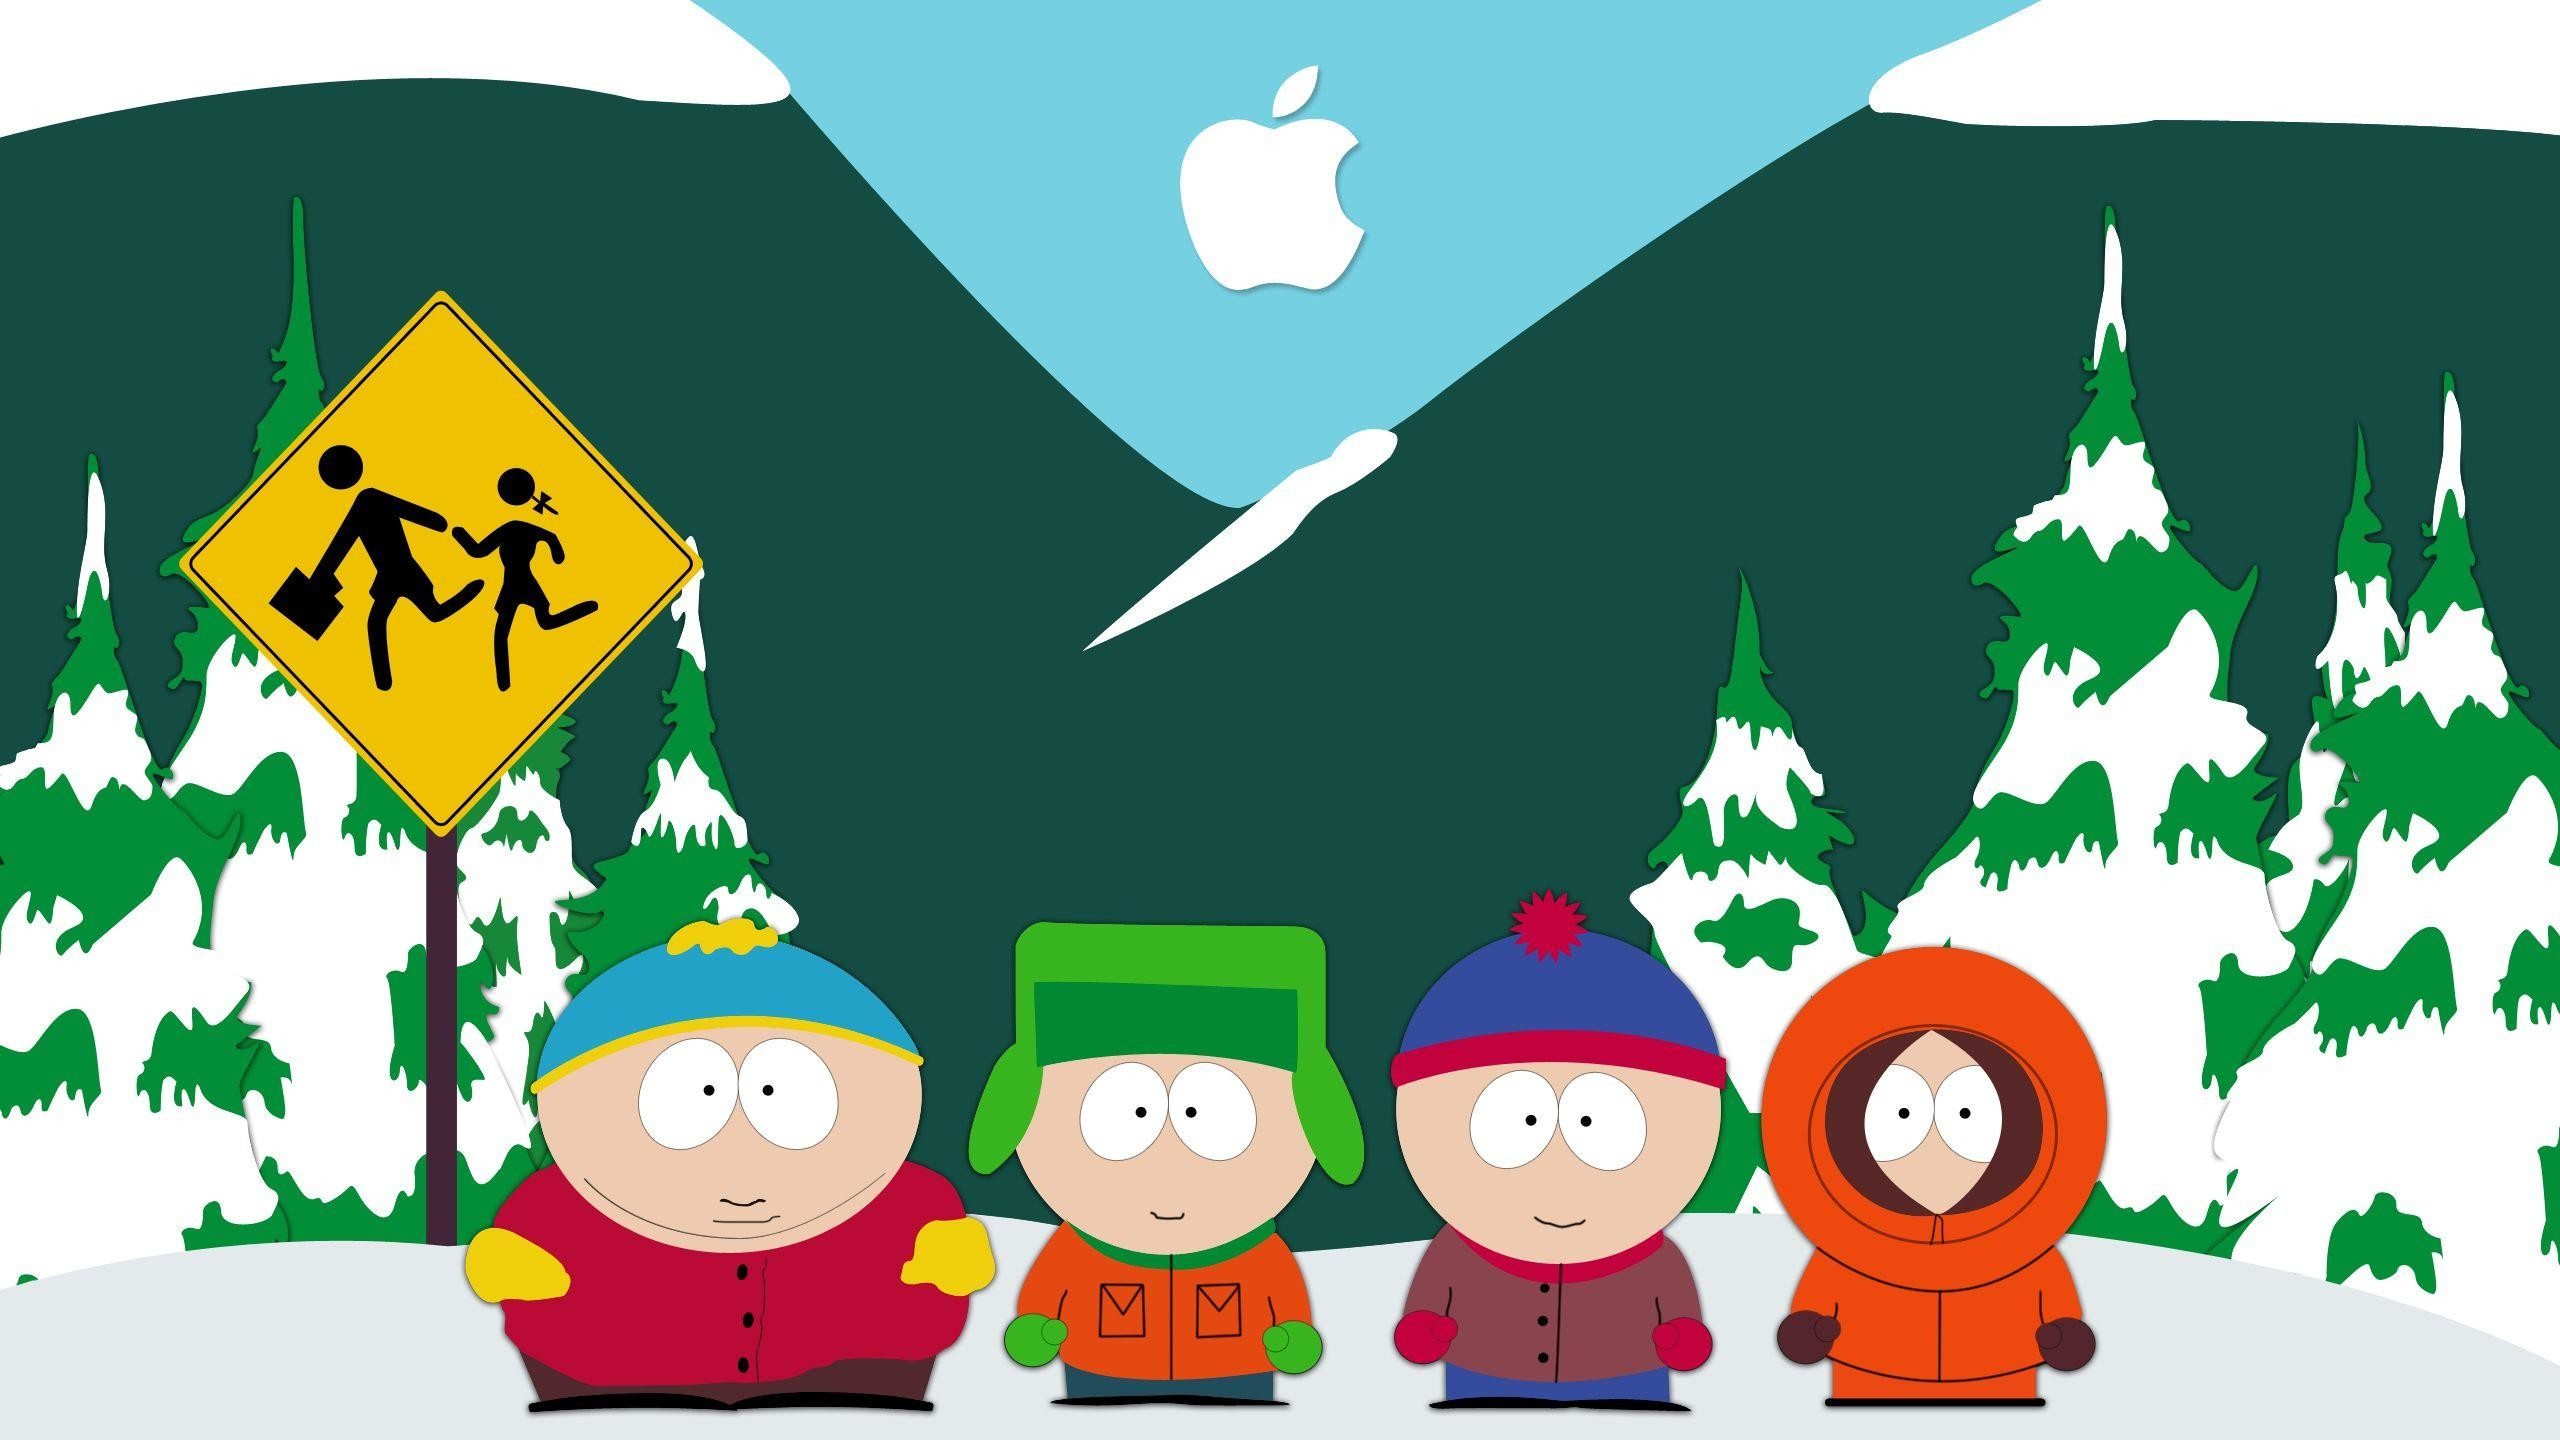
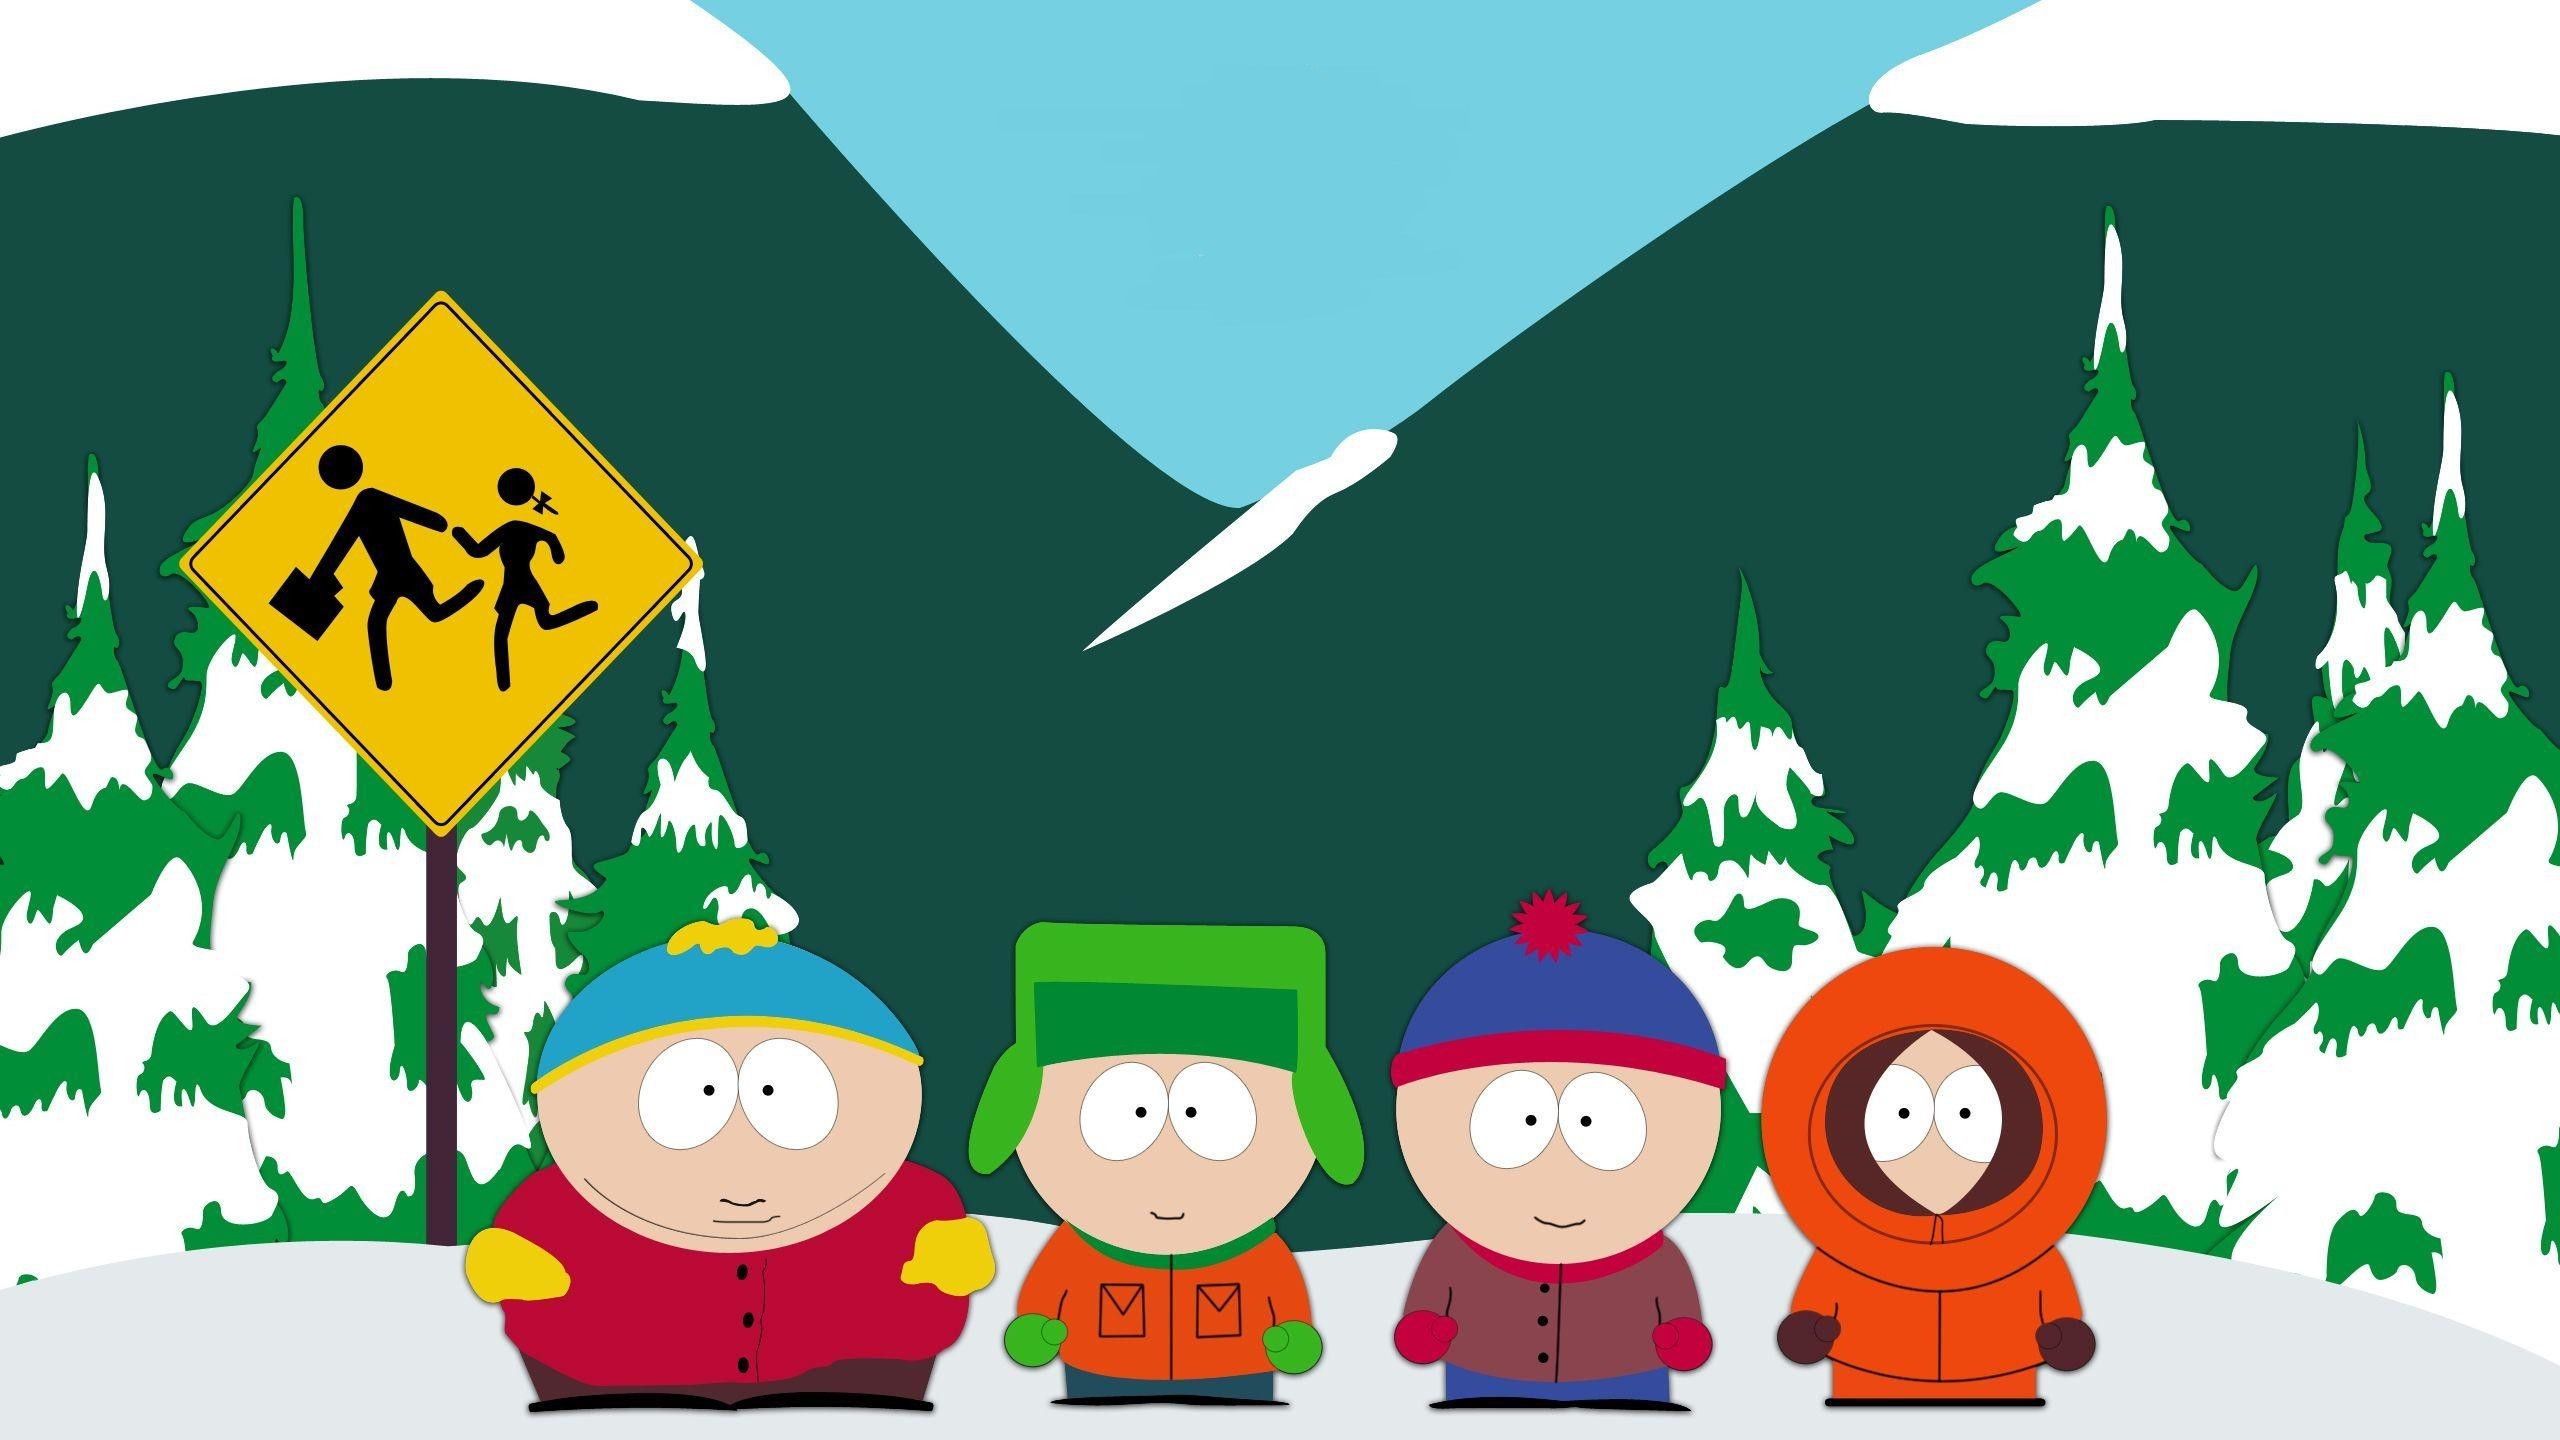
adjusted background image, updated button class to have no outline, added media query for large desktop resolutions, some margin updates.

Changed region(s): [[0.4375, 0.0312, 0.5312, 0.2188]]

diff --git a/src/App.js b/src/App.js
@@ -1,16 +1,13 @@
-import React, { Component } from 'react';
-import FriendCard from "./components/FriendCard"
+import React, { Component } from "react";
+import FriendCard from "./components/FriendCard";
 import Navbar from "./components/Navbar";
 import friends from "./friends.json";
-import Container from 'react-bootstrap/Container';
-import Row from 'react-bootstrap/Row';
-import Card from 'react-bootstrap/Card';
-import 'bootstrap/dist/css/bootstrap.min.css';
-import './App.css';
-
+import Container from "react-bootstrap/Container";
+import Row from "react-bootstrap/Row";
+import "bootstrap/dist/css/bootstrap.min.css";
+import "./App.css";
 
 class App extends Component {
-
   state = {
     clicked: [],
     friends,
@@ -18,53 +15,44 @@ class App extends Component {
     count: 0
   };
 
-
   southParkMemory = id => {
-
     if (this.state.clicked.includes(id)) {
-
-      alert("Try again!");
+      alert("Okay, let's try this again!");
 
       this.setState({
         clicked: [],
         friends,
-        // highScore: this.highscore(),
         count: 0
       });
 
-      console.log(`High Score: ${this.state.highScore}`)
-
+      console.log(`High Score: ${this.state.highScore}`);
     } else {
-
       this.setState(prevState => ({
         clicked: [id, ...prevState.clicked],
         count: this.state.count + 1
       }));
 
       console.log(this.state.clicked);
-
     }
   };
 
   highscore = () => {
     if (this.state.count > this.state.highScore) {
-      this.setState({ highScore: this.state.count })
+      this.setState({ highScore: this.state.count });
     }
-  }
+  };
 
   shuffleCards = arr => {
-
     if (this.state.count <= 12) {
       for (let i = arr.length - 1; i > 0; i--) {
-        const j = Math.floor(Math.random() * arr.length)
-        const temp = arr[i]
-        arr[i] = arr[j]
-        arr[j] = temp
-      };
+        const j = Math.floor(Math.random() * arr.length);
+        const temp = arr[i];
+        arr[i] = arr[j];
+        arr[j] = temp;
+      }
+    }
 
-    };
-
-    return arr
+    return arr;
   };
 
   componentDidMount() {
@@ -74,36 +62,33 @@ class App extends Component {
   componentDidUpdate() {
     this.shuffleCards(friends);
     this.highscore();
-
   }
 
-
   render() {
-
     return (
       <>
-        <Navbar className="" count={this.state.count} highscore={this.state.highScore} />
+        <Navbar
+          count={this.state.count}
+          highscore={this.state.highScore}
+        />
 
-        <Container className="">
-          <Row className="mt-3 mx-1 tile-row justify-content-center">
-            {this.state.friends.map(friend =>
-              <Card className="">
-                <FriendCard
-                  southParkMemory={this.southParkMemory}
-                  key={friend.id}
-                  id={friend.id}
-                  name={friend.name}
-                  image={friend.image}
-                  alias={friend.alias}
-                />
-              </Card>
-            )}
+        <Container>
+          <Row className="tile-row justify-content-center">
+            {this.state.friends.map(friend => (
+              <FriendCard
+                southParkMemory={this.southParkMemory}
+                key={friend.id}
+                id={friend.id}
+                name={friend.name}
+                image={friend.image}
+                alias={friend.alias}
+              />
+            ))}
           </Row>
         </Container>
-
       </>
-    )
-  };
+    );
+  }
 }
 
 export default App;

diff --git a/src/components/FriendCard/index.js b/src/components/FriendCard/index.js
@@ -4,17 +4,29 @@ import Card from "react-bootstrap/Card";
 import Image from "react-bootstrap/Image";
 import "./style.css";
 
-
 function FriendCard(props) {
-    return (
-        <Button className="btn" variant="outline-light" onClick={() => props.southParkMemory(props.id)}>
-            <Image className="imgsize " varient="top" src={props.image} alt={props.name} />
-            <Card.Body className="cardbody">
-                <Card.Text className="title text-center">{props.name}</Card.Text>
-                <Card.Text className="cardtext text-center"><strong>Alias:</strong> {props.alias}</Card.Text>
-            </Card.Body>
-        </Button>
-    );
-};
+  return (
+    <Card>
+      <Button
+        className="btn"
+        variant="outline-*"
+        onClick={() => props.southParkMemory(props.id)}
+      >
+        <Image
+          className="imgsize"
+          varient="top"
+          src={props.image}
+          alt={props.name}
+        />
+        <Card.Body className="cardbody">
+          <Card.Text className="title text-center">{props.name}</Card.Text>
+          <Card.Text className="cardtext text-center">
+            <strong>Alias:</strong> {props.alias}
+          </Card.Text>
+        </Card.Body>
+      </Button>
+    </Card>
+  );
+}
 
 export default FriendCard;

diff --git a/src/components/FriendCard/style.css b/src/components/FriendCard/style.css
@@ -1,25 +1,46 @@
 .btn {
-    width: 160px;
-    height: 170px;
+  width: 160px;
+  height: 170px;
+}
+
+.card {
+  width: 165px;
+  height: 170px;
+  float: left;
+  margin: 0px auto 10px auto;
+}
+
+@media screen and (min-width: 1600px) {
+  .card {
+    width: 180px;
+    height: 185px;
+    float: left;
+    margin: 0px auto 10px auto;
+  }
+
+  .btn {
+    width: 175px;
+    height: 185px;
+  }
 }
 
 .card-body.cardbody {
-    padding: 10px 0px 0px 0px; 
+  padding: 10px 0px 0px 0px;
 }
 
 .imgsize {
-    margin: auto;
-    width: 70px;
+  margin: auto;
+  width: 70px;
 }
 
 .title {
-    color: black;
-    font-weight: 550;
-    font-size: x-small;
-    margin-bottom: 4px;
+  color: black;
+  font-weight: 550;
+  font-size: x-small;
+  margin-bottom: 4px;
 }
 
 .cardtext {
-    color: black;
-    font-size: 8.5px;
+  color: black;
+  font-size: 8.5px;
 }

diff --git a/src/App.css b/src/App.css
@@ -1,11 +1,12 @@
 .tile-row {
-    background-color: transparent;
+    margin-top: 3rem;
 }
 
-.card {
-    width: 165px;
-    height: 170px;
-    float: left;
-    margin: 0px auto 10px auto;
-}
+@media screen and (min-width: 1600px) {
+
+    .tile-row {
+        margin-top: 50px;
+    }
+
+}    
 
